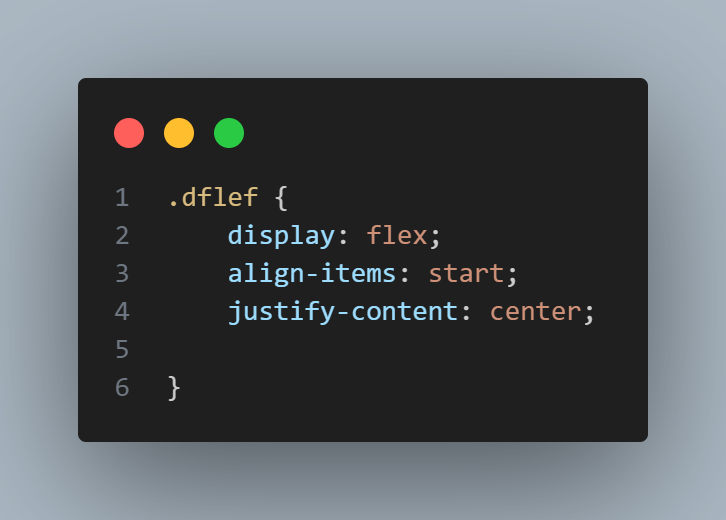
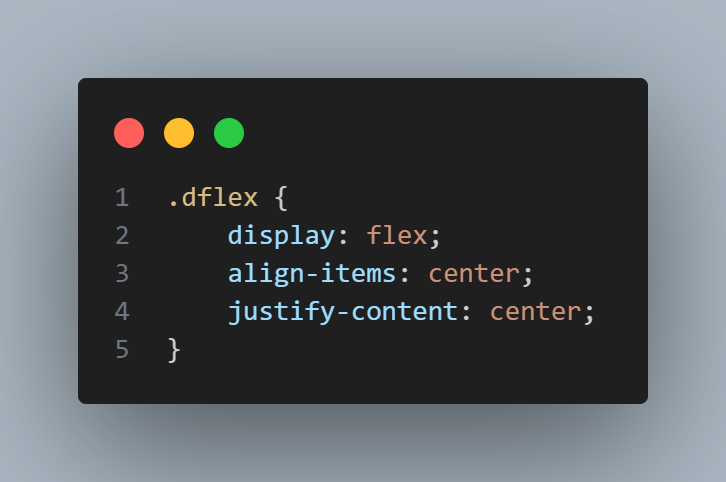
seventh

diff --git a/index.html b/index.html
@@ -78,7 +78,7 @@
                                 </figure>
                                 <h4>Step-6: subColumn</h4>
                                 <figure>
-                                    <img src="./assets/img/tags.png" alt="">
+                                    <img src="./assets/img/subColumn.png" alt="">
                                 </figure>
 
                             </div>

diff --git a/style.css b/style.css
@@ -110,7 +110,7 @@ svg {
 
 .dflex {
     /* display: flex; */
-    /* align-items: start; */
+    /* align-items: center; */
     /* justify-content: center; */
 }
 
